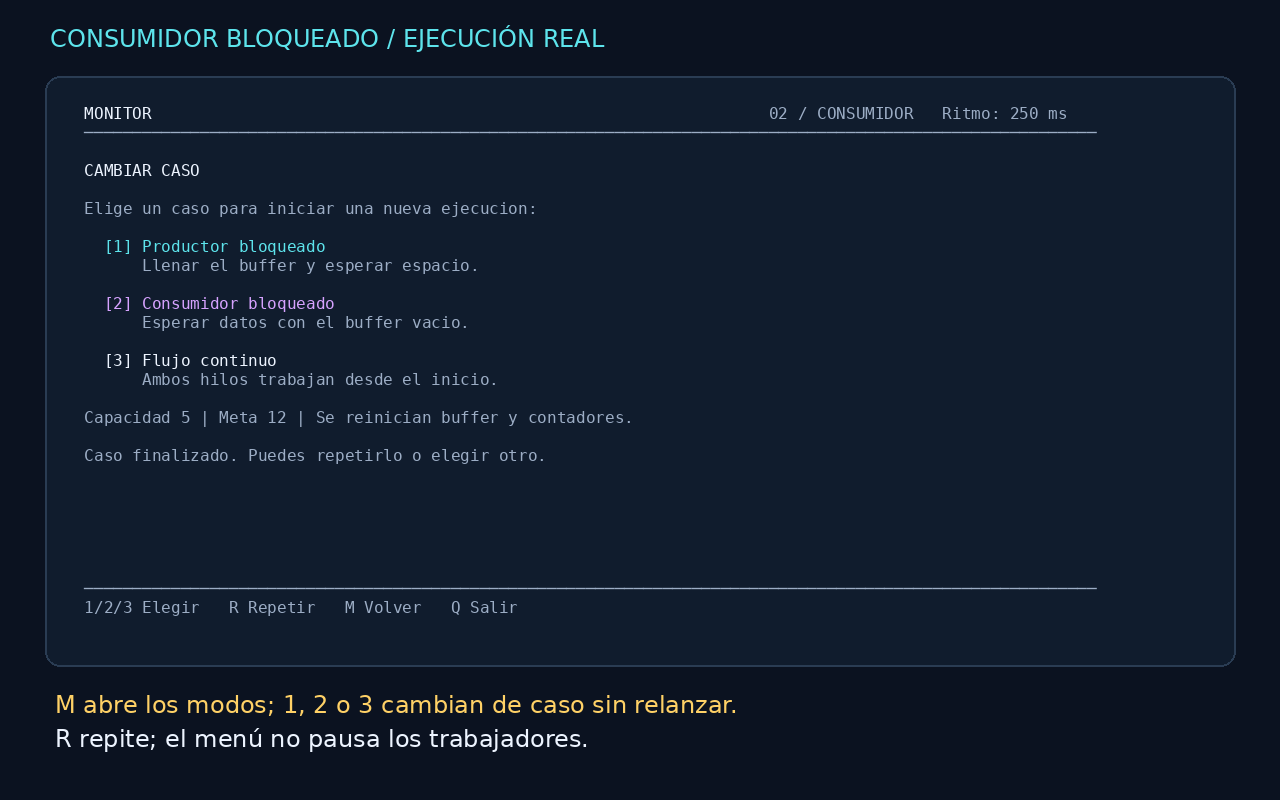
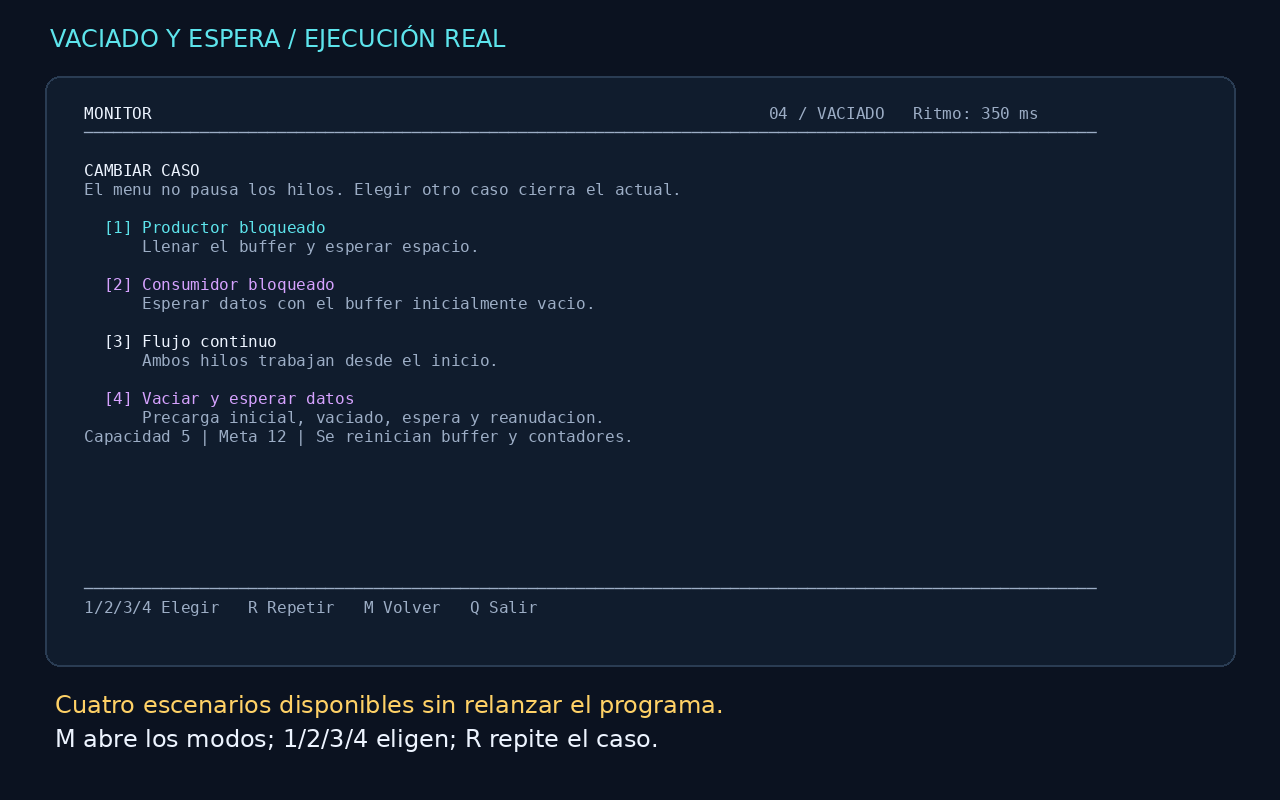
docs: document drain demonstration and verified Ubuntu environment

diff --git a/tools/create_demo.py b/tools/create_demo.py
@@ -50,7 +50,8 @@ def card(kicker, title, lines, footer='Proyecto 7 | C17 + POSIX Threads | Sin se
 def terminal_frame(frame, scenario, caption):
     image = Image.new('RGB', (WIDTH, HEIGHT), BG)
     draw = ImageDraw.Draw(image)
-    name = 'PRODUCTOR BLOQUEADO' if scenario == 'producer' else 'CONSUMIDOR BLOQUEADO'
+    name = {'producer': 'PRODUCTOR BLOQUEADO', 'consumer': 'CONSUMIDOR BLOQUEADO',
+            'drain': 'VACIADO Y ESPERA'}.get(scenario, 'MONITOR')
     draw.text((50, 24), name + ' / EJECUCIÓN REAL', font=BODY, fill=CYAN)
     draw.rounded_rectangle((45, 76, 1235, 666), 15, fill=PANEL, outline='#2a3c53', width=2)
     x0, y0, char_width = 65, 85, MONO.getlength('M')
@@ -145,7 +146,7 @@ def record(encoder, scenario):
                     menu_sent = True
                 if menu_sent and not menu_saved and '1/2/3' in latest:
                     terminal_frame(latest, scenario, [
-                        'M abre los modos; 1, 2 o 3 cambian de caso sin relanzar.',
+                        'M abre los modos; 1, 2, 3 o 4 cambian de caso sin relanzar.',
                         'R repite; el menú no pausa los trabajadores.']).save(MEDIA / 'menu-modos.png')
                     menu_saved = True
                 if complete_at is not None and now - complete_at >= 3 and not menu_closed:
@@ -167,8 +168,8 @@ def record(encoder, scenario):
                     quit_sent = True
                 if latest and now >= next_frame:
                     if menu_sent and not menu_closed:
-                        caption = ['M: tres escenarios en la misma aplicación.',
-                                   '1/2/3 eligen un caso nuevo; R repite desde cero.']
+                        caption = ['M: cuatro escenarios en la misma aplicación.',
+                                   '1/2/3/4 eligen un caso nuevo; R repite desde cero.']
                     elif details_saved:
                         caption = ['D: detalles técnicos solo cuando los necesitas.',
                                    'Secuencia real de wait, signal y reanudación.']

diff --git a/README.md b/README.md
@@ -26,7 +26,7 @@ En una terminal de al menos **80×24** (recomendado **110×34**):
 - **D**: alternar entre vista visual y detalles técnicos.
 - **+ / -**: aumentar/reducir velocidad (menos/más milisegundos entre operaciones).
 - **Q**: cierre cooperativo, incluso durante una espera.
-- **M**: abrir/cerrar el menú; **1 / 2 / 3** seleccionan productor, consumidor o flujo normal.
+- **M**: abrir/cerrar el menú; **1 / 2 / 3 / 4** seleccionan productor, consumidor, flujo normal o vaciado.
 - **R**: repetir el caso actual desde cero.
 - **Enter al terminar**: abrir el menú para elegir otro caso; **Q** sale.
 - `Ctrl+C`, `SIGTERM` y `SIGQUIT`: cerrar y restaurar la terminal.
@@ -58,7 +58,7 @@ el estado y los controles. `--plain` conserva la traza completa en texto.
 ### Cambiar de caso sin reiniciar el programa
 
 Pulsa **M**, luego **1** (bloqueo del productor), **2** (bloqueo del consumidor)
-o **3** (flujo normal). **R** repite el escenario actual. El menú **no pausa** los
+**3** (flujo normal) o **4** (vaciar y esperar datos). **R** repite el escenario actual. El menú **no pausa** los
 hilos: al elegir, se cancela cooperativamente la ejecución anterior, se unen sus
 hilos y se crea un monitor nuevo. Contadores y evidencia vuelven a cero.
 
@@ -82,7 +82,7 @@ la validación de secuencia y los contadores confirman una ejecución correcta.
 
 | Opción | Valores | Defecto |
 |---|---|---|
-| `--scenario` | `producer`, `consumer`, `normal` | `producer` |
+| `--scenario` | `producer`, `consumer`, `normal`, `drain` | `producer` |
 | `--capacity` | 1–16 | 5 |
 | `--items` | 1–1 000 000 | 20 |
 | `--delay` | 0–2000 ms | 250 |
@@ -211,3 +211,22 @@ make media
 El script ejecuta el binario real en una pseudoterminal, conserva las grabaciones
 `.cast`, genera capturas y codifica un MP4 con explicaciones en español. No tiene
 narración de voz ni reemplaza la exposición del equipo.
+
+### Caso 4: vaciar antes de bloquear
+
+**M → 4** inicia con `capacity` elementos precargados como preparación, sin
+hilos activos. El consumidor retira esos elementos en orden y, al intentar otra
+extracción, espera en `not_empty`. **Enter** inicia el productor con el siguiente
+ID; su inserción y señal permiten reanudar al consumidor. R repite el caso.
+
+```sh
+./build/monitor-demo --scenario drain --capacity 5 --items 12 --delay 350
+```
+
+`--items` cuenta todos los elementos, incluida la precarga, y debe superar la
+capacidad en `drain`. Desde el menú se ajusta automáticamente si hace falta.
+La UI identifica la preparación; los contadores incluyen esos elementos iniciales.
+Usar un ritmo de 200–500 ms permite observar el vaciado; a ritmo cero puede pasar
+entre dos frames, pero la traza conserva las extracciones anteriores a WAIT.
+
+Entorno confirmado en `/etc/os-release`: **Ubuntu 26.04 LTS (Resolute Raccoon)**.

diff --git a/docs/VALIDACION.md b/docs/VALIDACION.md
@@ -67,3 +67,19 @@ varían entre ejecuciones; no se publican como un benchmark.
 
 Los resultados anteriores y los PDFs académicos conservan su fecha original;
 esta sección, README y DEMO describen la interacción actual.
+
+## Caso de vaciado — 31 de octubre de 2026
+
+- Entorno verificado con `/etc/os-release`: Ubuntu 26.04 LTS, Resolute Raccoon.
+- `make check`: PASS, unitarias, 7 métodos de integración y 14 métodos PTY.
+- `make sanitize`: PASS fuera del sandbox, misma suite ASan/UBSan.
+- `make tsan`: PASS; además `--plain --scenario drain --capacity 16 --items 10000
+  --delay 0` bajo TSan finalizó con 10 000 producidos/consumidos y status=OK.
+- Traza de drain: capacidades 1, 3 y 16, ritmos 0 y 10 ms; todas las extracciones
+  de la precarga preceden al primer WAIT del consumidor. El productor continúa
+  con el ID siguiente; sin pérdidas ni duplicados.
+- PTY 80×24: opción 4 visible, vaciado antes de espera, Enter, resultado válido,
+  repetición y cancelación con restauración de terminal. Ajuste de meta probado.
+- Fallos inyectados de creación de ambos trabajadores también cubren drain.
+- Capturas nuevas de ejecución real: vaciado-en-curso.png y vaciado-bloqueado.png.
+  El video y los casts anteriores siguen mostrando los casos 1 y 2, no el nuevo 4.

diff --git a/docs/ARQUITECTURA.md b/docs/ARQUITECTURA.md
@@ -126,3 +126,15 @@ ritmo elegido y se desactiva la continuación automática al seleccionar un caso
 La evidencia de recepción se marca al observar WAKE, no al emitir SIGNAL;
 no supone transferencia inmediata del mutex. El banner de éxito comprueba la
 integridad FIFO y los contadores, no solamente que ambos hilos hayan terminado.
+
+## Caso drain: preparación sin nuevos mecanismos de sincronización
+
+`simulation_init` precarga exactamente la capacidad mediante `monitor_put`,
+antes de crear trabajadores. No puede esperar por lleno: nunca intenta insertar
+más de esa capacidad. Solo se inicia el consumidor; el monitor permanece abierto
+cuando termina de extraer la precarga, por lo que la siguiente extracción espera.
+El productor se crea tras observar WAIT y continúa desde `capacity + 1` hasta
+`items`; la verificación del consumidor comienza en 1 e incluye la precarga.
+No se agregan mutexes, condiciones, semáforos ni pausas bajo el mutex. Las señales
+de preparación no son permisos almacenados: la prueba de reanudación empieza en
+el WAIT del consumidor y exige una nueva inserción posterior.

diff --git a/docs/DEMO.md b/docs/DEMO.md
@@ -108,3 +108,13 @@ texto lo informa. No se pierden elementos: el consumidor valida cada ID FIFO.
 - [ ] Revisar video técnico y agregar exposición del equipo si el docente la exige.
 - [ ] Adjuntar código, paper, presentación y video en ECampus antes de la fecha.
 - [ ] Confirmar hora/fecha y cualquier validación mediante Teams con el docente.
+
+## Caso adicional: vaciado visible (M → 4)
+
+Para demostrar literalmente “vaciar el búfer”, elegir 4 en el menú con ritmo
+350 ms: observar las celdas precargadas desaparecer, el contador de retirados
+llegar a la capacidad y luego BUFFER VACIO / Esperando datos. Explicar que la
+precarga es preparación del escenario, no una ejecución previa del productor.
+Enter inicia al productor; D permite ver WAIT → PUT → SIGNAL → WAKE → GET.
+El ID nuevo continúa después de los precargados y el resultado valida FIFO.
+El caso 2 sigue disponible para mostrar una espera con búfer inicialmente vacío.

diff --git a/docs/media/README.md b/docs/media/README.md
@@ -40,3 +40,11 @@ si el docente la exige. Ver ../DEMO.md para una exposición de 6–8 minutos.
 Las dos grabaciones arrancan procesos independientes para explicar cada bloqueo.
 El cambio entre modos dentro de un mismo proceso se valida en `tests/test_terminal.py`;
 no se presenta este montaje como una grabación de esos cambios.
+
+### Caso 4 — capturas del 31 de octubre de 2026
+
+`vaciado-en-curso.png` y `vaciado-bloqueado.png` muestran el binario real con
+`--scenario drain --capacity 5 --items 12 --delay 350` en PTY 110×30.
+La precarga se identifica como preparación sin hilo productor. El menú actualizado
+incluye cuatro casos. El MP4 y los casts conservan la grabación anterior de los
+casos 1 y 2; no contienen todavía el caso 4.

diff --git a/docs/PLAN.md b/docs/PLAN.md
@@ -58,3 +58,9 @@ identificación del equipo, revisión académica, exposición y entrega en ECamp
 - [x] Cambio seguro durante esperas: cierre, join y monitor nuevo.
 - [x] Pruebas de cambios, reinicios, resize, errores y restauración de terminal.
 - [x] Guía y medios actualizados.
+
+## Extensión — 31 de octubre de 2026
+
+- [x] Caso 4 / drain: precarga identificada, vaciado, espera y reanudación real.
+- [x] Mantener el caso 2 inicialmente vacío y los controles sin relanzamiento.
+- [x] Validación FIFO, PTY, errores, ASan/UBSan y TSan; guía y capturas nuevas.
